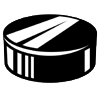
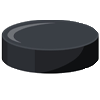
- change puck design - change font for score counter

diff --git a/src/main.js b/src/main.js
@@ -26,7 +26,7 @@ class MainMenu extends Phaser.Scene {
     // Add title text
     this.add.text(sizes.width / 2, 100, "Turbo Puck", {
       fontSize: "48px",
-      fill: "#ffffff"
+      fill: "black"
     }).setOrigin(0.5);
 
     // Add start game button
@@ -87,11 +87,10 @@ class GameScene extends Phaser.Scene {
     this.player = this.physics.add.image(200, sizes.height - 100, "puck")
       .setOrigin(0.5)
       .setScale(0.5);
-    this.player.setCollideWorldBounds(true); // keep it within the screen
-    this.player.setBounce(0);                // make sure the puck doesnt bounce off the wall
-    this.player.setDrag(0.99);               // add friction
+    this.player.setCollideWorldBounds(true);
+    this.player.setBounce(0);
+    this.player.setDrag(0.99);
 
-    // Stop the puck if it hits a wall by setting the velocity to 0
     this.player.body.onWorldBounds = true;
     this.physics.world.on("worldbounds", (body, up, down, left, right) => {
       if (body.gameObject === this.player) {
@@ -112,7 +111,8 @@ class GameScene extends Phaser.Scene {
     // Add a shot counter
     this.shotText = this.add.text(20, 20, "Shots: 0", {
       fontSize: "24px",
-      fill: "#ffffff"
+      fontFamily: "'orbitron', sans-serif", 
+      color: "#00ff00"
     });
 
     // Add the players and set their positions 
@@ -122,7 +122,7 @@ class GameScene extends Phaser.Scene {
       { x: 700, y: 100, key: "player2" },
       { x: 700, y: 400, key: "player3" },
       { x: 500, y: 300, key: "player4" },
-      { x: 200, y: 400, key: "player5" },
+      { x: 100, y: 350, key: "player5" },
     ];
 
     playerData.forEach(data => {
@@ -199,11 +199,10 @@ const config = {
   physics: {
     default: "arcade",
     arcade: {
-      debug: false
+      debug: true
     }
   },
   scene: [MainMenu, GameScene],
 };
 
 const game = new Phaser.Game(config);
-

diff --git a/index.html b/index.html
@@ -4,6 +4,7 @@
     <meta charset="UTF-8" />
     <link rel="icon" type="image/svg+xml" href="assets/logo.png" />
     <meta name="viewport" content="width=device-width, initial-scale=1.0" />
+    <link rel="stylesheet" href="https://use.typekit.net/nen1lnd.css">
     <title>Turbo Puck</title>
   </head>
   <body>

diff --git a/src/style.css b/src/style.css
@@ -41,3 +41,12 @@ header, footer {
   border: 1px solid red; 
 }
 
+.retro-text {
+  font-family: 'orbitron', sans-serif;
+  font-size: 24px;
+  color: #00ff00;
+  -webkit-text-stroke: 1px black;
+  text-shadow: 2px 2px #000000;
+}
+
+
